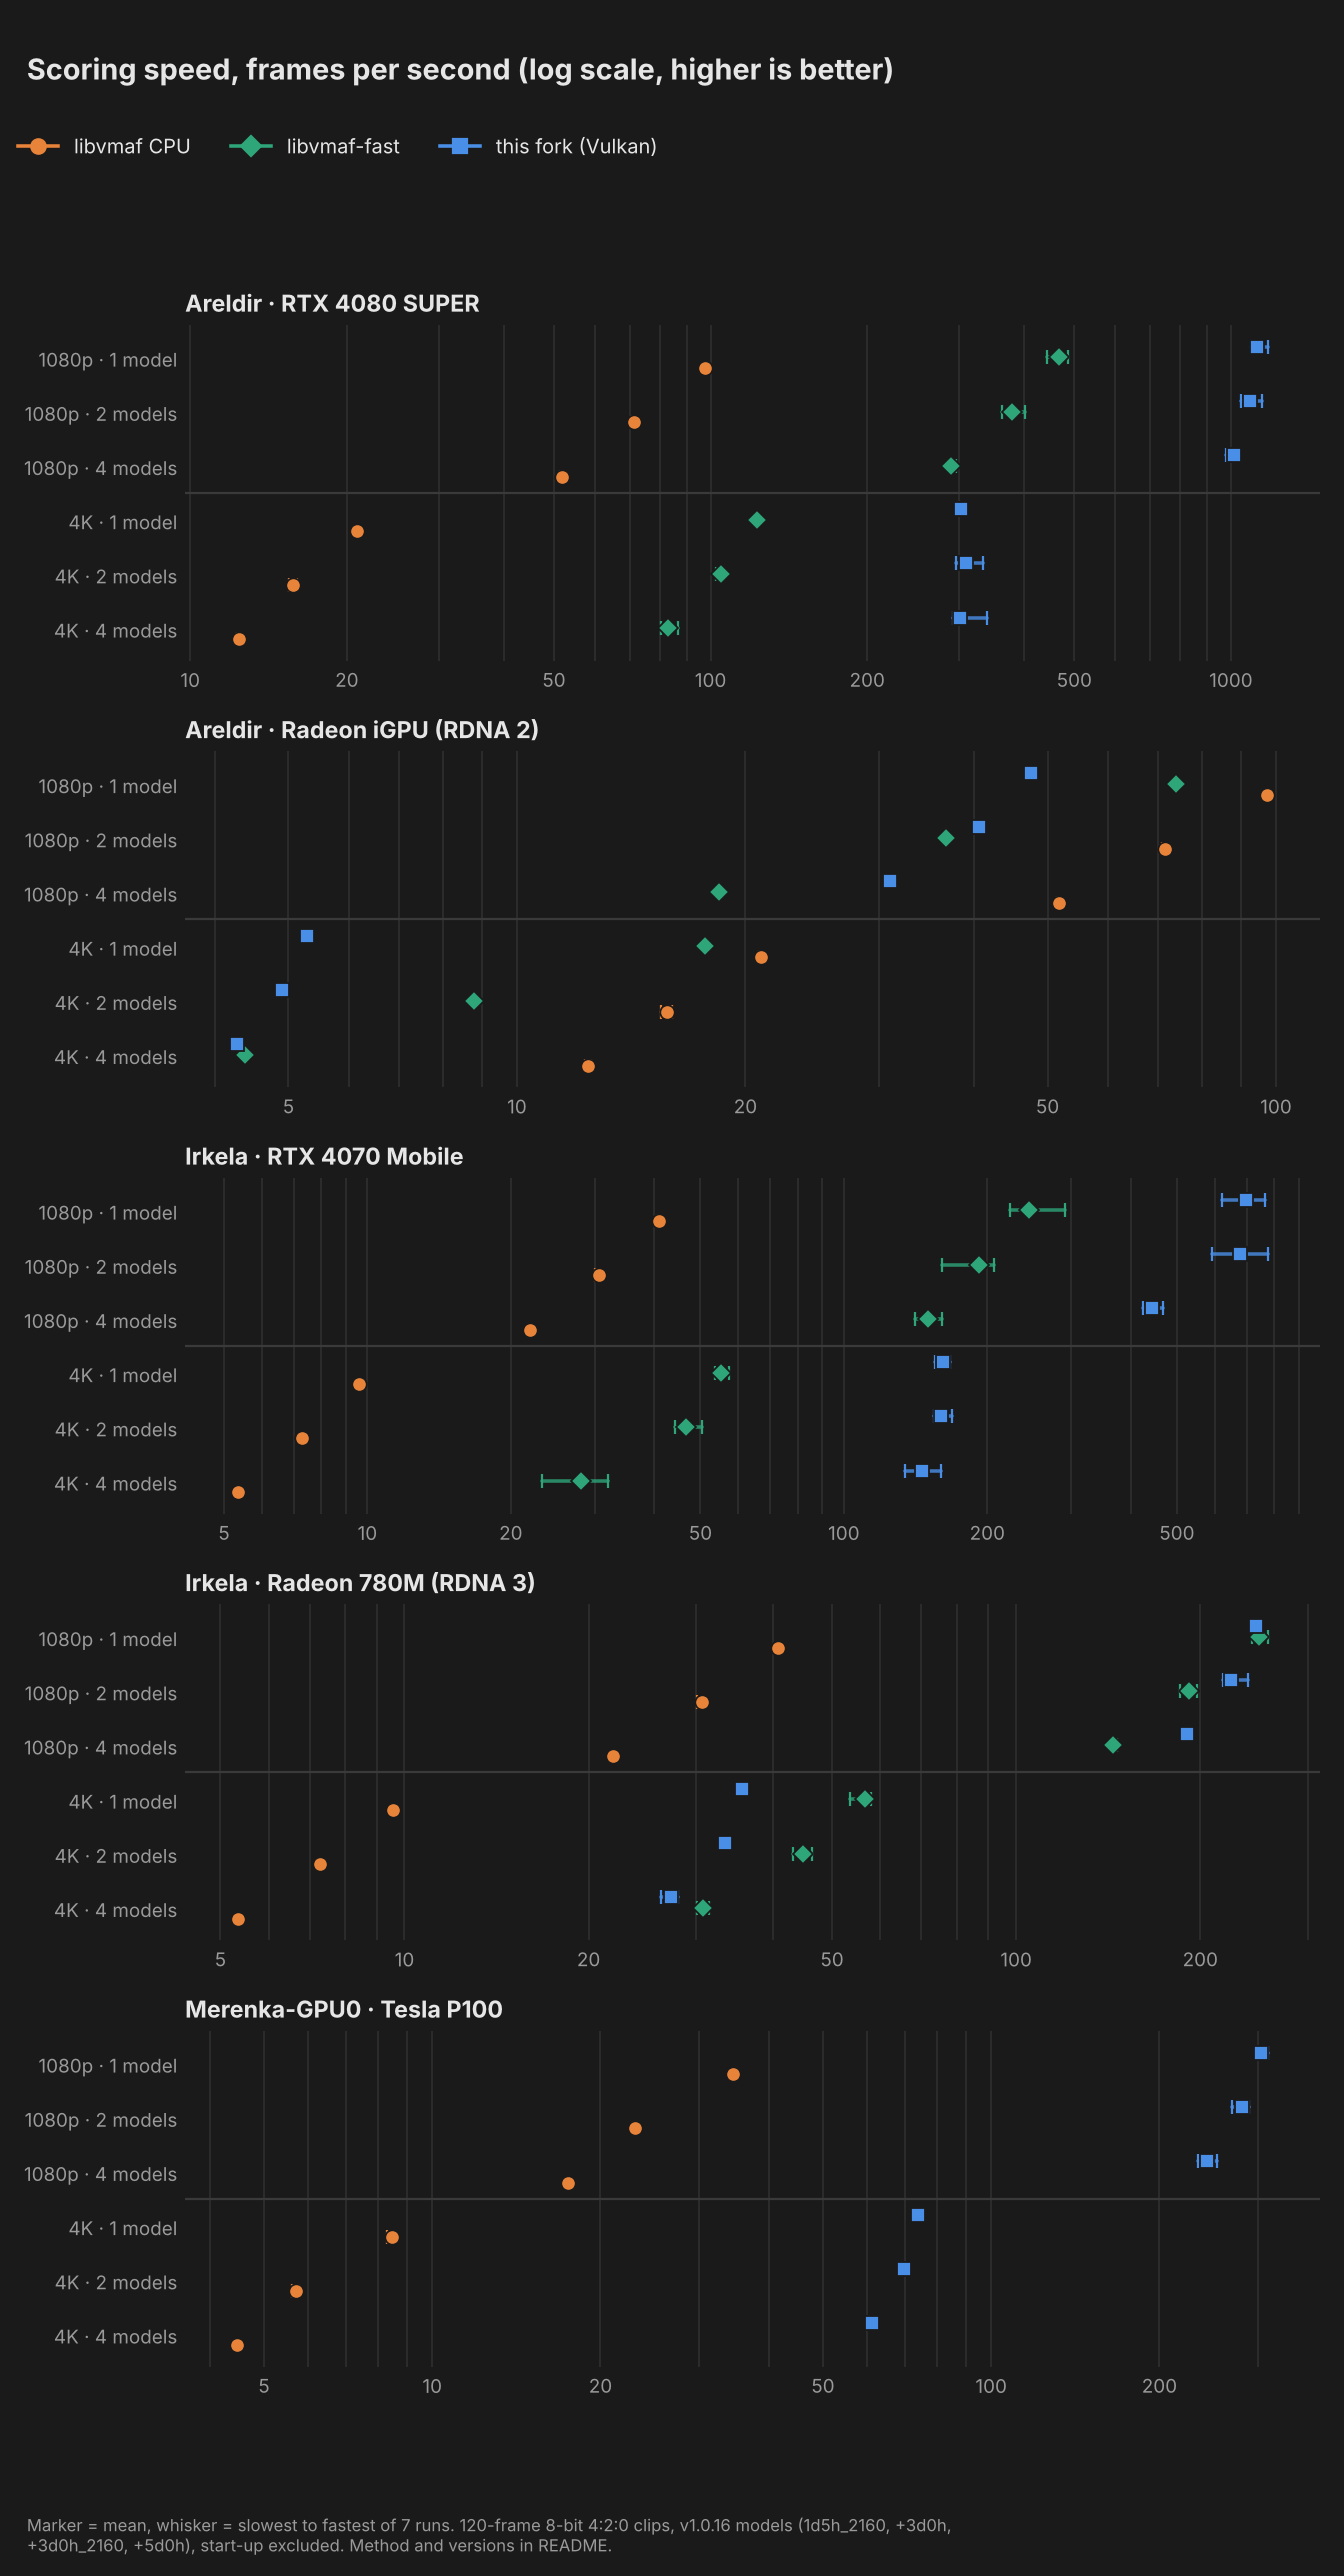
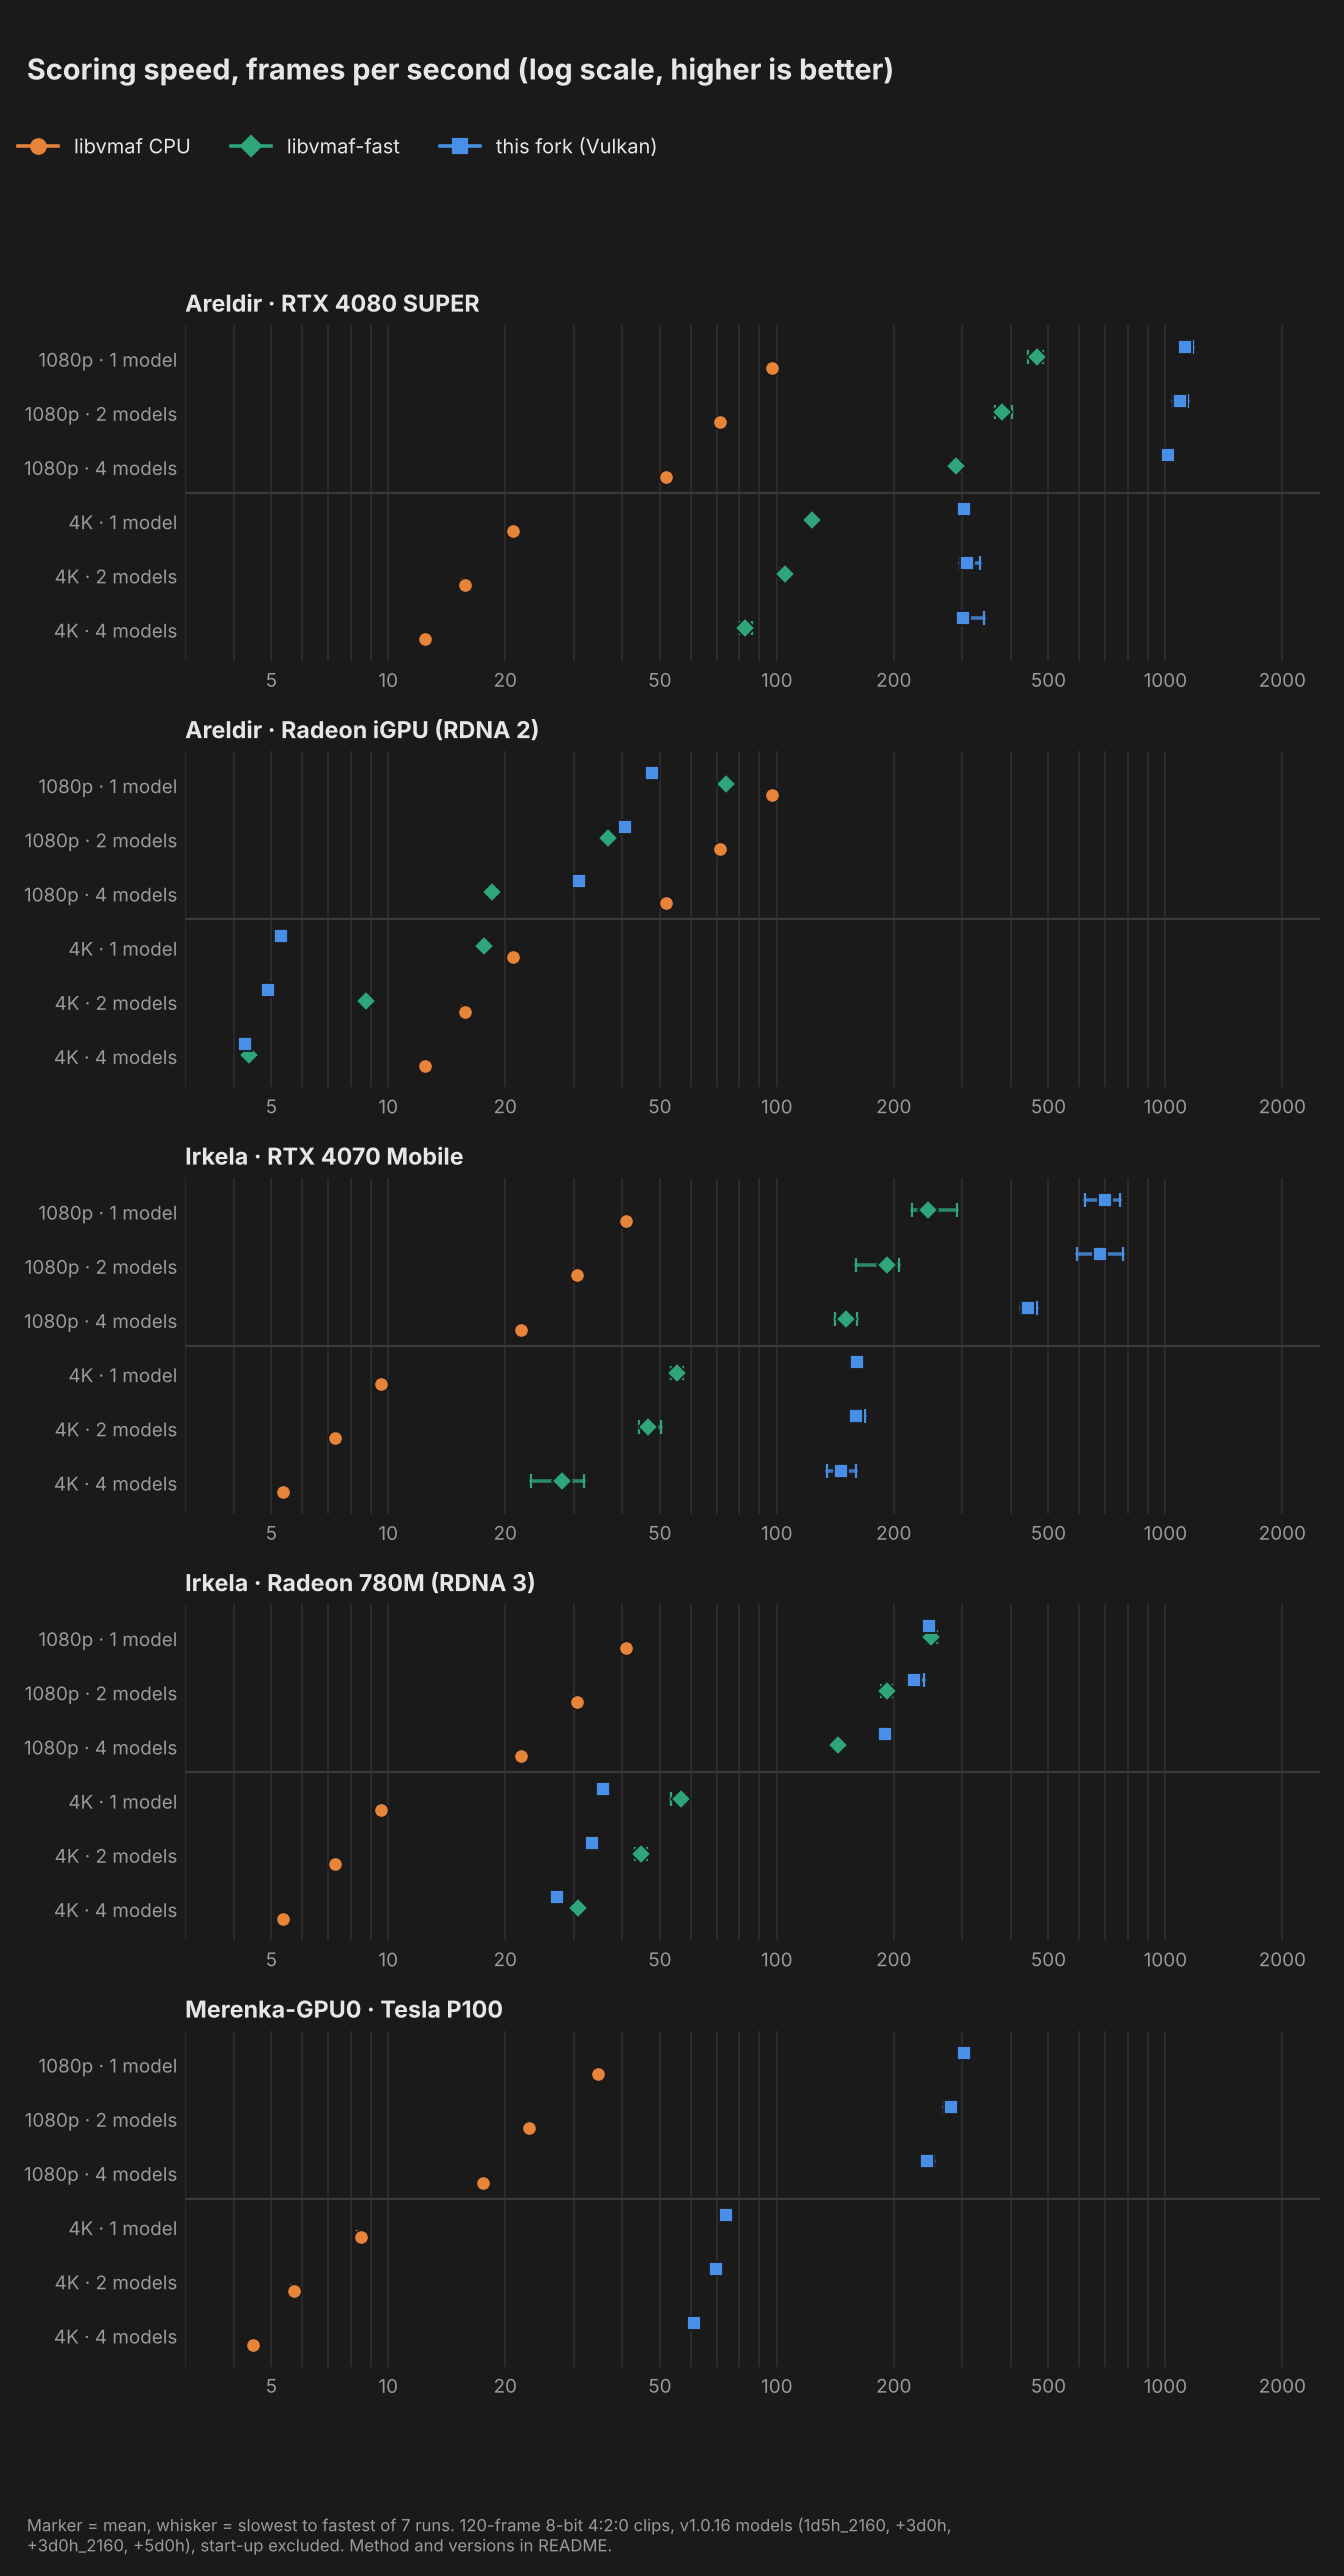
bench plot: same fps axis (3-2500) in every panel
Claude-Session: https://claude.ai/code/session_01Ur73BRekqAxR9n8jpHiMe3

diff --git a/tools/bench/plot_bench.py b/tools/bench/plot_bench.py
@@ -19,6 +19,7 @@ THEMES = {
     "light": dict(bg="#ffffff", fg="#1f2328", grid="#d8dee4", sub="#59636e"),
 }
 ENGINES = [("cpu", "libvmaf CPU", "o", "#e8833a"), ("fast", "libvmaf-fast", "D", "#2ea67a"), ("vulkan", "this fork (Vulkan)", "s", "#4a8fe7")]
+XLIM = (3, 2500)  # same fps axis in every panel
 ROWS = [(r, n) for r in ("1080", "4k") for n in (1, 2, 4)]
 
 
@@ -62,6 +63,7 @@ def draw(panels, theme, out, foot):
                 ax.plot([row["min"], row["max"]], [yy, yy], "|", color=col, ms=6)
                 ax.plot(row["avg"], yy, mk, color=col, ms=6.5, mec=t["bg"], mew=0.8)
         ax.set_xscale("log")
+        ax.set_xlim(*XLIM)
         ax.set_yticks(range(len(ROWS)))
         ax.set_yticklabels([f"{'4K' if r == '4k' else '1080p'} · {m} model{'s' if m > 1 else ''}" for r, m in reversed(ROWS)], color=t["fg"], fontsize=8.5)
         ax.set_ylim(-0.6, len(ROWS) - 0.4)

diff --git a/README.md b/README.md
@@ -14,7 +14,7 @@ A fork of [Netflix/vmaf](https://github.com/Netflix/vmaf) that runs the VMAF fea
 
 ## Benchmarks
 
-Scoring speed in frames per second for 1, 2 and 4 VMAF v1.0.16 models scored in one pass, at 1080p and 4K, on three machines (five GPUs, one datacenter GPU). Each machine runs the CPU code of this fork, [libvmaf-fast](https://github.com/4KVCD/libvmaf-fast) (4KVCD's Vulkan VMAF library, Windows only) and this fork's Vulkan backend. Marker = mean, whisker = slowest to fastest of 7 runs; the axis is logarithmic.
+Scoring speed in frames per second for 1, 2 and 4 VMAF v1.0.16 models scored in one pass, at 1080p and 4K, on three machines (five GPUs, one datacenter GPU). Each machine runs the CPU code of this fork, [libvmaf-fast](https://github.com/4KVCD/libvmaf-fast) (4KVCD's Vulkan VMAF library, Windows only) and this fork's Vulkan backend. Marker = mean, whisker = slowest to fastest of 7 runs; the axis is logarithmic and the same in every panel (3 to 2500 fps).
 
 <picture>
   <source media="(prefers-color-scheme: dark)" srcset="docs/benchmark-v1-dark.png">
